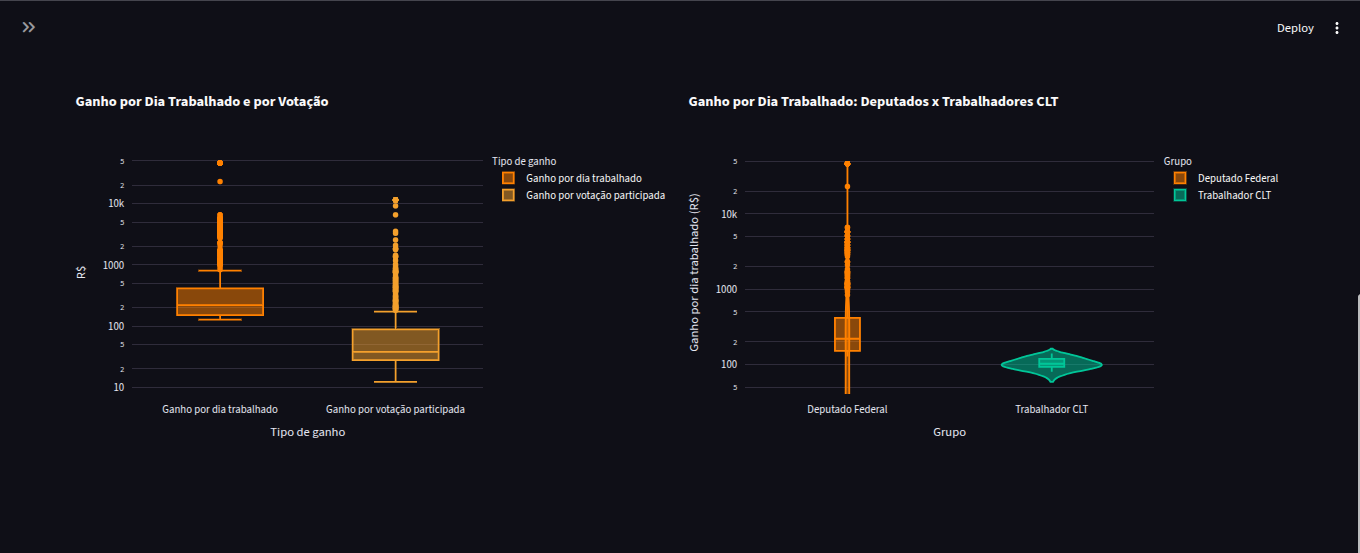
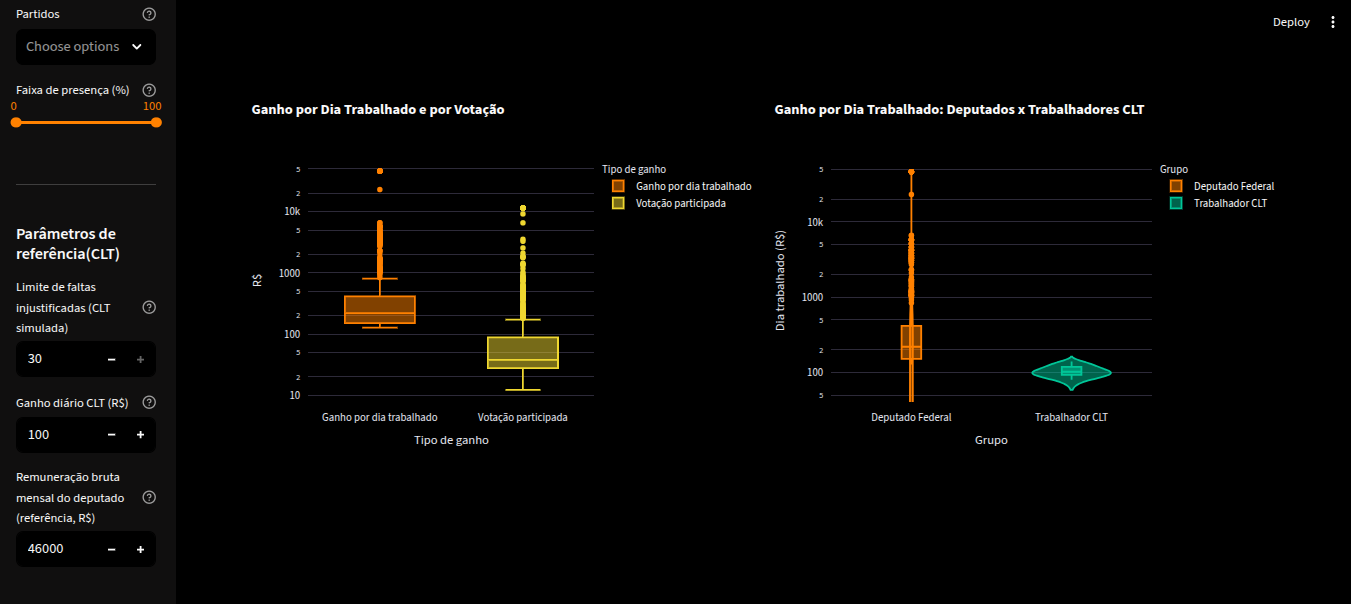
add: filtros deputados

diff --git a/app/home.py b/app/home.py
@@ -62,8 +62,114 @@ df_dep_presenca = pd.read_csv("data/graphs/df_dep_presenca.csv")
 df_dep_votacao = pd.read_csv("data/graphs/df_dep_votacao.csv")
 df_dep_injustificado = pd.read_csv("data/graphs/df_dep_injustificado.csv")
 df_dep = pd.read_csv("data/graphs/df_dep_ganhos.csv")
+
+
+# ============================
+# SIDEBAR – FILTROS + PARÂMETROS CLT
+# ============================
+with st.sidebar:
+    st.markdown("### Deputados")
+
+    # --- filtro por nome de deputado ---
+    opcoes_deps = sorted(df_dep["deputado"].dropna().unique().tolist())
+    deps_selecionados = st.multiselect(
+        "Deputados",
+        options=opcoes_deps,
+        default=None,
+        help="Selecione um ou mais deputados para focar a análise.",
+    )
+
+    # --- filtro por partido ---
+    if "siglaPartido" in df_dep_presenca.columns:
+        opcoes_partidos = sorted(df_dep_presenca["siglaPartido"].dropna().unique().tolist())
+    else:
+        opcoes_partidos = []
+    partidos_selecionados = st.multiselect(
+        "Partidos",
+        options=opcoes_partidos,
+        default=None,
+        help="Filtra deputados pelos partidos selecionados.",
+    )
+
+    # --- faixa de presença (já existia) ---
+    faixa_presenca_pct = st.slider(
+        "Faixa de presença (%)",
+        min_value=0,
+        max_value=100,
+        value=(0, 100),
+        help="Mantém apenas deputados dentro dessa faixa de taxa de presença.",
+    )
+
+    st.markdown("---")
+    st.markdown("### Parâmetros de referência(CLT)")
+
+    # limite de faltas CLT (usado no gráfico 3)
+    limite_faltas_clt = st.number_input(
+        "Limite de faltas injustificadas (CLT simulada)",
+        min_value=0,
+        max_value=30,
+        value=5,
+        step=1,
+        help="Usado como linha de referência no gráfico de faltas injustificadas.",
+    )
+
+    # ganho diário CLT (usado para gerar/interpretar df_civ)
+    ganho_clt_referencia = st.number_input(
+        "Ganho diário CLT (R$)",
+        min_value=0,
+        max_value=1000,
+        value=100,
+        step=10,
+        help="Valor de referência para o ganho diário de um trabalhador CLT.",
+    )
+
+    # remuneração de referência do deputado (para reescalar ganhos)
+    remuneracao_ref = st.number_input(
+        "Remuneração bruta mensal do deputado (referência, R$)",
+        min_value=10000,
+        max_value=100000,
+        value=46000,
+        step=1000,
+        help="Usada para calcular ganho por dia trabalhado e por votação participada.",
+    )
+    
+# ============================
+# APLICAÇÃO DOS FILTROS GERAIS
 # ============================
 
+# 1) ponto de partida: df_dep (ganhos) como universo de deputados
+df_dep_base = df_dep.merge(
+    df_dep_presenca[["id_deputado", "taxa_presenca", "siglaPartido"]],
+    on="id_deputado",
+    how="left",
+)
+
+# 2) faixa de presença
+min_frac = faixa_presenca_pct[0] / 100
+max_frac = faixa_presenca_pct[1] / 100
+mask = (df_dep_base["taxa_presenca"] >= min_frac) & (df_dep_base["taxa_presenca"] <= max_frac)
+
+# 3) filtro por deputado (se houver seleção)
+if deps_selecionados:
+    mask &= df_dep_base["deputado"].isin(deps_selecionados)
+
+# 4) filtro por partido (se houver seleção)
+if partidos_selecionados:
+    mask &= df_dep_base["siglaPartido"].isin(partidos_selecionados)
+
+# 5) ids finais
+ids_filtrados = df_dep_base.loc[mask, "id_deputado"].unique()
+
+# 6) aplica aos demais dataframes
+df_dep_presenca = df_dep_presenca[df_dep_presenca["id_deputado"].isin(ids_filtrados)]
+df_dep_votacao = df_dep_votacao[df_dep_votacao["id_deputado"].isin(ids_filtrados)]
+df_dep_injustificado = df_dep_injustificado[df_dep_injustificado["id_deputado"].isin(ids_filtrados)]
+df_dep = df_dep[df_dep["id_deputado"].isin(ids_filtrados)]
+
+# 7) reescalar ganhos pela remuneração de referência (se quiser)
+FATOR_REMUNERACAO = remuneracao_ref / 46000  # assume que df_dep_ganhos foi gerado com 46k
+df_dep["ganho_por_dia_trabalhado"] *= FATOR_REMUNERACAO
+df_dep["ganho_por_votacao_participada"] *= FATOR_REMUNERACAO
 
 # Trabalhadores CLT (fictícios)
 data_civ = {
@@ -73,6 +179,7 @@ data_civ = {
     ],
     "grupo": ["Trabalhador CLT"] * 15,
 }
+
 df_civ = pd.DataFrame(data_civ)
 
 df_dep_gain = pd.DataFrame(
@@ -81,33 +188,7 @@ df_dep_gain = pd.DataFrame(
         "grupo": "Deputado Federal",
     }
 )
-
 df_violin = pd.concat([df_dep_gain, df_civ], ignore_index=True)
-
-# ============================
-# SIDEBAR – APENAS TAXA DE PRESENÇA
-# ============================
-with st.sidebar:
-    st.markdown("### Filtro de presença")
-
-    faixa_presenca_pct = st.slider(
-        "Faixa de presença (%)",
-        min_value=0,
-        max_value=100,
-        value=(0, 100),
-        help="Filtra deputados pela taxa de presença em sessões deliberativas.",
-    )
-
-# converter de % para fração 0–1
-min_frac = faixa_presenca_pct[0] / 100
-max_frac = faixa_presenca_pct[1] / 100
-
-# aplicar filtro
-df_filtrado = df_dep_presenca[
-    (df_dep_presenca["taxa_presenca"] >= min_frac)
-    & (df_dep_presenca["taxa_presenca"] <= max_frac)
-].copy()
-
 
 # ============================
 # PALETA DE CORES
@@ -115,16 +196,15 @@ df_filtrado = df_dep_presenca[
 # Laranja principal (deputados), amarelo/âmbar (CLT/limites),
 # ciano/teal (grupo CLT), e um laranja mais claro para contraste.
 palette_main = "#ff7f0e"      # laranja principal
-palette_amber = "#f2c94c"     # amarelo/âmbar (destaques, CLT)
+palette_amber = "#00b894"     # amarelo/âmbar (destaques, CLT)
 palette_teal = "#00b894"      # teal (Trabalhador CLT)
-palette_light_orange = "#f2994a"
+palette_light_orange = "#f2c54a"
 
 # ======================================================================
 # Presença por Deputado
 # ======================================================================
 
 df_plot1 = df_dep_presenca.sort_values("taxa_presenca", ascending=True)
-df_plot1 = df_filtrado.sort_values("taxa_presenca", ascending=True)
 
 fig1 = px.bar(
     df_plot1,
@@ -171,7 +251,6 @@ fig2.update_layout(yaxis_tickformat=".0%")
 # ======================================================================
 # Faltas injustificadas vs limite CLT
 # ======================================================================
-limite_faltas_clt = 5  # mantém aqui
 
 df_plot3 = df_dep_injustificado.sort_values("faltas_injustificadas", ascending=False)
 
@@ -209,10 +288,11 @@ df_long = pd.melt(
 )
 df_long["tipo_ganho"] = df_long["tipo_ganho"].map(
     {
-        "ganho_por_dia_trabalhado": "Ganho por dia trabalhado",
-        "ganho_por_votacao_participada": "Ganho por votação participada",
+        "ganho_por_dia_trabalhado": "Dia trabalhado",
+        "ganho_por_votacao_participada": "Votação participada",
     }
 )
+
 fig4 = px.box(
     df_long,
     x="tipo_ganho",
@@ -223,7 +303,7 @@ fig4 = px.box(
     labels={"tipo_ganho": "Tipo de ganho", "valor": "R$"},
     title="Ganho por Dia Trabalhado e por Votação",
 )
-
+fig4.update_xaxes(tickangle=0)
 # ======================================================================
 # Desigualdade: Deputados x CLT
 # ======================================================================
@@ -255,7 +335,7 @@ df_long = pd.melt(
 df_long["tipo_ganho"] = df_long["tipo_ganho"].map(
     {
         "ganho_por_dia_trabalhado": "Ganho por dia trabalhado",
-        "ganho_por_votacao_participada": "Ganho por votação participada",
+        "ganho_por_votacao_participada": "Votação participada",
     }
 )
 fig4 = px.box(
@@ -285,7 +365,7 @@ fig5 = px.violin(
     color_discrete_sequence=[palette_main, palette_teal],
     labels={
         "grupo": "Grupo",
-        "ganho_por_dia_trabalhado": "Ganho por dia trabalhado (R$)",
+        "ganho_por_dia_trabalhado": "Dia trabalhado (R$)",
     },
     title="Ganho por Dia Trabalhado: Deputados x Trabalhadores CLT",
 )

diff --git a/README.md b/README.md
@@ -21,6 +21,7 @@ dados sobre gastos e atividade parlamentar dos deputados federais.
 ---
 ![alt text](docs/images/image.png)
 ![alt text](docs/images/image-1.png)
+
 ---
 
 **Fase 1:**
@@ -56,8 +57,14 @@ Demonstração gráfica através de Dashboards comparativos, expondo os privilé
 ```
 .
 ├── app
-│   └── home.py
+│   ├── home.py
+│   └── KPIs.md
 ├── data
+│   ├── graphs
+│   │   ├── df_dep_ganhos.csv
+│   │   ├── df_dep_injustificado.csv
+│   │   ├── df_dep_presenca.csv
+│   │   └── df_dep_votacao.csv
 │   ├── info
 │   │   ├── cod_situacao_deputados.json
 │   │   ├── freq_eventos.csv
@@ -71,12 +78,11 @@ Demonstração gráfica através de Dashboards comparativos, expondo os privilé
 │   │   ├── votacoes_2020-02_2025-10_todas.csv
 │   │   ├── votacoes_2020-02.csv
 │   │   ├── votacoes_2020-03.csv
-│   │   ├── votacoes_2020-04.csv
-│   │   ├── votacoes_2020-05.csv
 │   │   .
 │   │   .
-|   |   .
-|   |
+│   │   .
+│   │   └── votacoes_2025-10.csv
+│   │   
 │   └── quality
 │       └── descricao_arquivos.csv
 ├── docs
@@ -94,12 +100,16 @@ Demonstração gráfica através de Dashboards comparativos, expondo os privilé
 │   ├── 02_descricao_dados.ipynb
 │   ├── 03_analise_exploratoria.ipynb
 │   ├── 04_verificacao_qualidade.ipynb
-│   ├── resumo.txt
-│   └── transform
-│       └── tratamento.ipynb
+│   ├── preprocess
+│   │   ├── faltas_injustificadas.ipynb
+│   │   ├── ganhos_deputados.ipynb
+│   │   ├── sessoes_votacao_participada.ipynb
+│   │   ├── tx_presenca_deputado.ipynb
+│   │   ├── Untitled Folder
+│   │   └── visao_geral.ipynb
+│   └── resumo.txt
 ├── README.md
-├── requirements.txt
-└── test.py
+└── requirements.txt
 ```
 
 - **Requirements**
